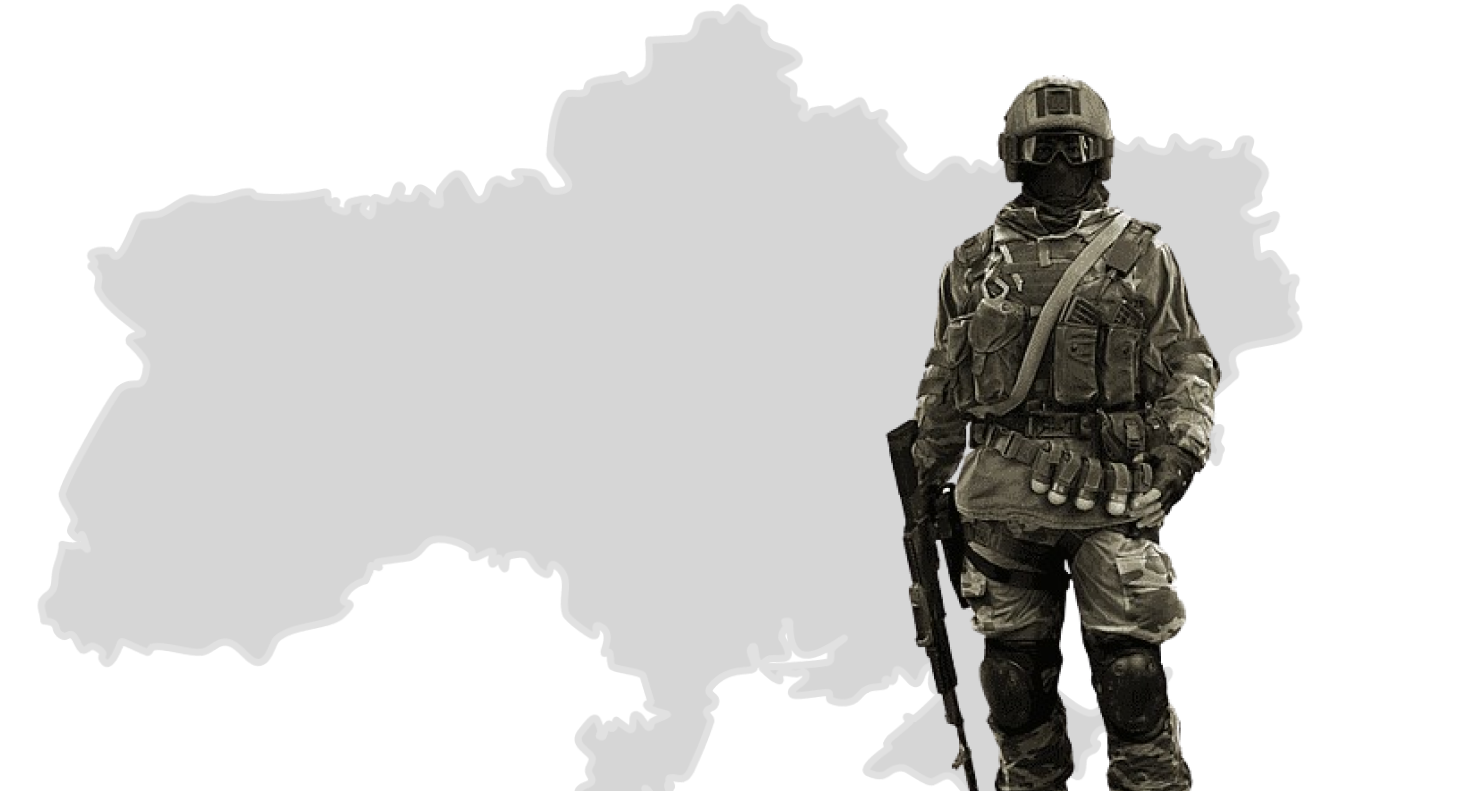
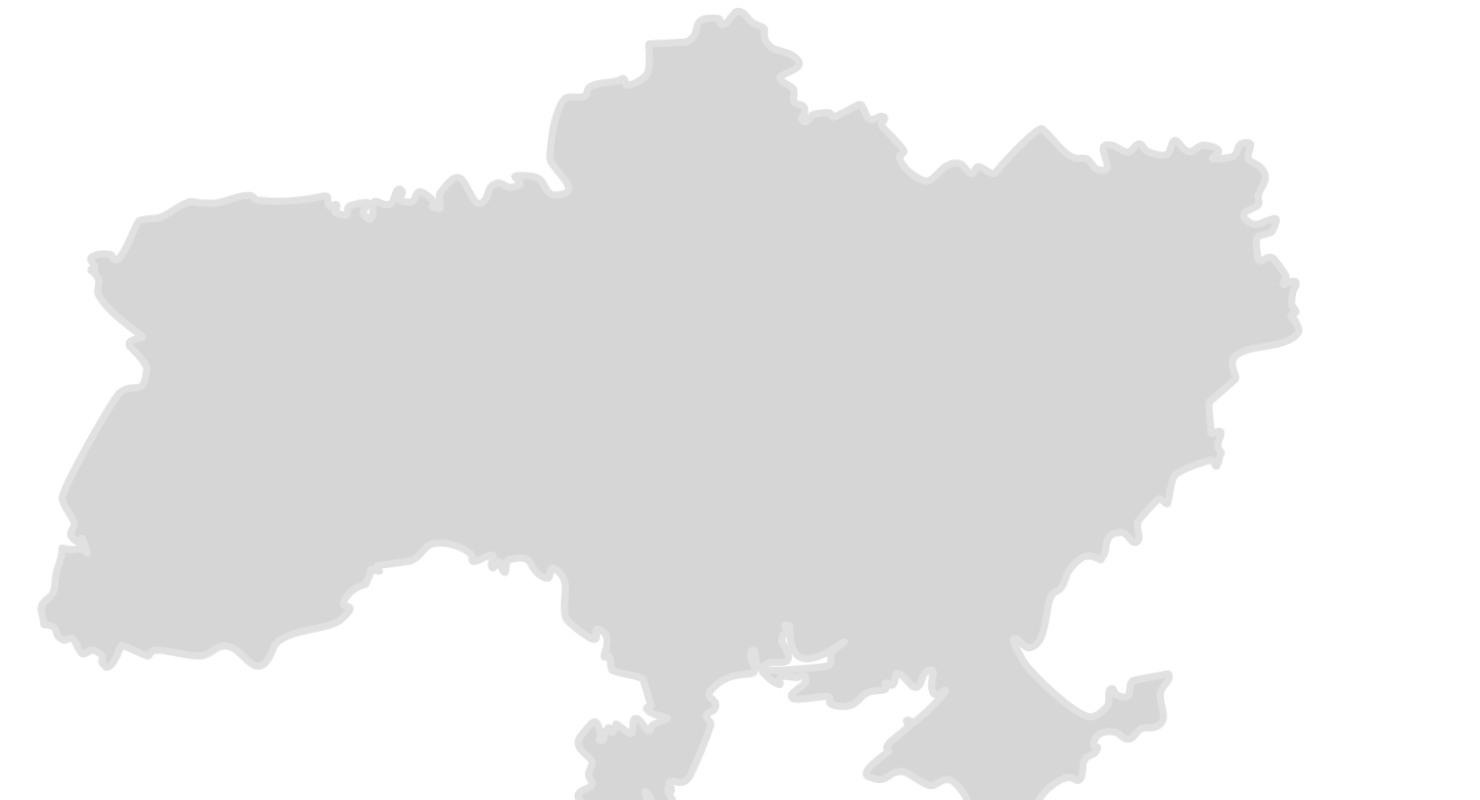
Updates

Changed region(s): [[0.5905, 0.091, 0.8392, 1.0], [0.5284, 0.8192, 0.5595, 0.8799], [0.4041, 0.8799, 0.4351, 0.9102]]

diff --git a/ValorVault/wwwroot/css/main registered.css b/ValorVault/wwwroot/css/main registered.css
@@ -15,7 +15,7 @@
     position: relative;
     min-height: 100vh;
     min-width: 100vh;
-    background-image: url('/images/mask-group.png');
+    background-image: url('/images/mask-group1.png');
     background-size: cover;
 }
 
@@ -171,7 +171,7 @@
 }
 
 .component .text-wrapper-6 {
-    width: 45px;
+    width: 100px;
     height: 45px;
     font-weight: 500;
     color: #000000;
@@ -183,6 +183,7 @@
     white-space: nowrap;
     background-color: #d9d9d9;
     border: none;
+    right:20px;
 }
 
     .component .text-wrapper-6:hover {

diff --git a/ValorVault/wwwroot/css/main.css b/ValorVault/wwwroot/css/main.css
@@ -8,7 +8,7 @@
     position: relative;
     min-height: 100vh;
     min-width: 100vh;
-    background-image: url('/images/mask-group.png');
+    background-image: url('/images/mask-group1.png');
     background-size: cover;
 }
 

diff --git a/ValorVault/Controllers/SoldierInfoController.cs b/ValorVault/Controllers/SoldierInfoController.cs
@@ -1,5 +1,9 @@
 using Microsoft.AspNetCore.Mvc;
+using System.Threading.Tasks;
+using Microsoft.AspNetCore.Http;
+using System;
 using ValorVault.Models;
+using ValorVault.Services;
 
 public class SoldierInfoController : Controller
 {
@@ -11,20 +15,37 @@ public class SoldierInfoController : Controller
     }
 
     [HttpGet]
-    public IActionResult Create()
+    public IActionResult Adding()
     {
         return View();
     }
 
     [HttpPost]
-    public IActionResult Create(SoldierInfo model)
+    public async Task<IActionResult> Adding(SoldierInfo model, IFormFile photo)
     {
-        if (ModelState.IsValid)
+        if (photo != null && photo.Length > 0)
         {
-            _soldierInfoService.AddSoldierInfo(model);
-            return RedirectToAction("Index");
+            var photoBytes = await ImageFormatter.ConvertToByteArray(photo);
+            if (photoBytes != null)
+            {
+                model.photo = photoBytes;
+            }
+            else
+            {
+                ModelState.AddModelError("Photo", "There was a problem converting the photo.");
+            }
         }
-        return View(model);
+        else
+        {
+            ModelState.AddModelError("Photo", "Photo is required.");
+        }
+        
+        model.birth_date = model.birth_date.ToUniversalTime();
+        model.admin_ref = 2;
+        model.user_ref = 23;
+        model.source_ref = 1;
+        _soldierInfoService.AddSoldierInfo(model);
+        return RedirectToAction("Index", "Home");
     }
 
     [HttpGet]

diff --git a/ValorVault/Program.cs b/ValorVault/Program.cs
@@ -20,7 +20,7 @@ builder.Services.AddIdentity<User, IdentityRole<int>>(options =>
 .AddEntityFrameworkStores<SoldierInfoDbContext>()
 .AddDefaultTokenProviders();
 builder.Services.AddScoped<IUserService, UserService>();
-
+builder.Services.AddScoped<ISoldierInfoService, SoldierInfoService>();
 var app = builder.Build();
 
 if (app.Environment.IsDevelopment())
@@ -43,6 +43,6 @@ app.UseAuthorization();
 
 app.MapControllerRoute(
     name: "default",
-    pattern: "{controller=Registration}/{action=Register}/{id?}");
+    pattern: "{controller=SoldierInfo}/{action=Adding}/{id?}");
 
 app.Run();

diff --git a/ValorVault/Services/ImageFormatter.cs b/ValorVault/Services/ImageFormatter.cs
@@ -1,0 +1,20 @@
+using Microsoft.AspNetCore.Http;
+using System.Drawing;
+using System.Drawing.Imaging;
+using System.IO;
+
+public static class ImageFormatter
+{
+    public static async Task<byte[]> ConvertToByteArray(IFormFile file)
+    {
+        if (file == null || file.Length == 0)
+            return null;
+
+        using (var memoryStream = new MemoryStream())
+        {
+            await file.CopyToAsync(memoryStream);
+            return memoryStream.ToArray();
+        }
+    }
+
+}

diff --git a/ValorVault/Controllers/RegistrationController.cs b/ValorVault/Controllers/RegistrationController.cs
@@ -25,7 +25,7 @@ namespace ValorVault.Controllers
             {
                 var registeredUser = await _userService.CreateUser(model);
 
-                return RedirectToAction("Index", "Home");
+                return RedirectToAction("Main_registered", "Home");
             }
             catch (ArgumentException ex)
             {

diff --git a/ValorVault/Controllers/AuthenticationController.cs b/ValorVault/Controllers/AuthenticationController.cs
@@ -32,7 +32,7 @@ namespace ValorVault.Controllers
                 return View("Login");
             }
 
-            return RedirectToAction("Index", "Home");
+            return RedirectToAction("Main_registered", "Home");
             //}
             //catch (Exception ex)
             //{
